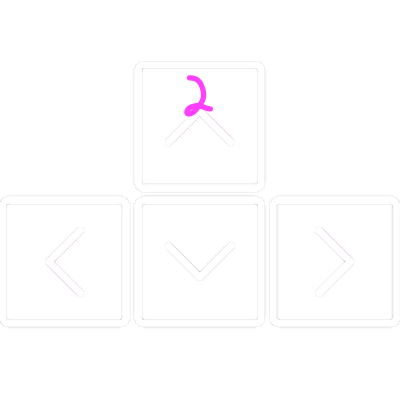
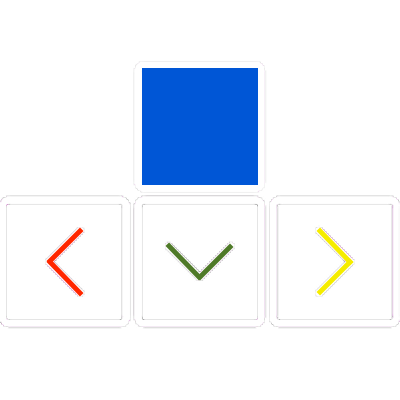
Finished the first version of the game

diff --git a/js/game.js b/js/game.js
@@ -1,45 +1,161 @@
 window.onload = function() {
     initialize();
     builSequences();
+    manageVelocity();
     showSequence();
 
     canvas.addEventListener("click", onClick, false);
 
     function onClick(e) {
-        console.log("cliked")
+        checkInputSequence('mouse', event);
+        if (gameOver) {
+            coords = getMousePosition(event);
+            if ((coords.x >= 340 && coords.x <= 435) && (coords.y >= 252 && coords.y <= 284)) {
+                reset();
+                initialize();
+                builSequences();
+                manageVelocity();
+                showSequence();
+            }
+        }
     }
+
+    document.addEventListener('keydown', function(event) {
+        console.log(event.key)
+        checkInputSequence('key', event);
+    }, false);
 };
+
+function buildMessage(mode) {
+    ctx.fillStyle = "#333";
+    ctx.fillRect((canvas.width / 2) - 360, (canvas.height / 2) - 165, 220, 50);
+    if (mode == "wait") {
+        ctx.fillStyle = "#FFF";
+        ctx.font = "30px sans-serif";
+        ctx.fillText("Pay Attention!", (canvas.width / 2) - 350, (canvas.height / 2) - 125);
+    } else {
+        ctx.fillStyle = "#FFF";
+        ctx.font = "30px sans-serif";
+        ctx.fillText("Your turn!", (canvas.width / 2) - 350, (canvas.height / 2) - 125);
+    }
+}
 
 function buildTemplate(index) {
     var gameTemplate = new Image();
+    if (index == null) {
+        ctx.fillStyle = "#333";
+        ctx.fillRect(0, 51, gameWidth, gameHeight - 51);
+        index = 0;
+    }
     gameTemplate.src = "imgs/genius_template_" + index + ".png";
     gameTemplate.onload = function() {
-        ctx.drawImage(gameTemplate, (gameWidth / 2) - 200, (gameHeight / 2) - 170);
+        setTimeout(function() {
+            ctx.drawImage(gameTemplate, (gameWidth / 2) - 200, (gameHeight / 2) - 170);
+        }, 10);
     };
 }
 
 function builSequences() {
-    for (var i = 0; i < 3; i++) {
+    var stageSequence = sequence.length;
+    for (var i = stageSequence; i < stage; i++) {
         sequence[i] = randomIntFromInterval(1, 4);
     }
+    console.log(sequence)
+}
+
+function checkInputSequence(mode, event) {
+    if (startToPlay && !gameOver) {
+        arrowInput = getArrowInput(mode, event);
+        if (arrowInput != null) {
+            if (sequence[indexHit] == arrowInput) {
+                if ((indexHit + 1) == stage) {
+                    nextStage();
+                } else {
+                    indexHit++;
+                }
+            } else {
+                buildGameOver();
+            }
+        }
+    }
+}
+
+function getArrowInput(mode, event) {
+    if (mode == 'key') {
+        var key = event.key
+        switch (key) {
+            case "ArrowLeft":
+                return 1
+            case "ArrowUp":
+                return 2
+            case "ArrowDown":
+                return 3
+            case "ArrowRight":
+                return 4
+        }
+    } else {
+        coords = getMousePosition(event);
+        if ((coords.x >= 206 && coords.x <= 322) && (coords.y >= 270 && coords.y <= 388))
+            return 1;
+        else if ((coords.x >= 339 && coords.x <= 457) && (coords.y >= 132 && coords.y <= 254))
+            return 2;
+        else if ((coords.x >= 358 && coords.x <= 458) && (coords.y >= 270 && coords.y <= 388))
+            return 3;
+        else if ((coords.x >= 473 && coords.x <= 596) && (coords.y >= 270 && coords.y <= 388))
+            return 4;
+    }
+    return null;
+}
+
+function manageVelocity() {
+    if (stage < 5) {
+        velocity = 300;
+    } else if (stage >= 5 && stage < 10) {
+        velocity = 400;
+    } else if (stage >= 10 && stage < 15) {
+        velocity = 500;
+    } else if (stage >= 15 && stage < 20) {
+        velocity = 600;
+    } else if (stage >= 20 && stage < 25) {
+        velocity = 700;
+    } else if (stage >= 25 && stage < 30) {
+        velocity = 800;
+    } else {
+        velocity = 950;
+    }
+
+    requestAnimationFrame(manageVelocity);
+}
+
+function nextStage() {
+    startToPlay = false;
+    stage++;
+    indexHit = 0;
+    renderTop();
+    builSequences();
+    showSequence();
 }
 
 function showSequence() {
-    for (var i = 0; i < stage; i++) {
-        highlight(sequence[i]);
+    var count = 0;
+    var i = 0
+    for (i = 0; i < stage; i++) {
+        highlight(count++, sequence[i]);
+        highlight(count++, null);
     }
+    setTimeout(function() {
+        startToPlay = true;
+        buildMessage("player");
+    }, (i) * (1600 - velocity));
 }
-
-
 
 // Helpers:
 
-function highlight(index) {
-    //buildTemplate(index);
-    setTimeout(function(){
-      buildTemplate(index);        
-    }, 1500);
-
+function highlight(i, index) {
+    setTimeout(function() {
+        buildTemplate(index);
+        buildMessage("wait");
+    }, i * (1000 - velocity));
 }
 
 function randomIntFromInterval(min, max) {
@@ -52,9 +168,4 @@ function getMousePosition(evt) {
         x: evt.clientX - rect.left,
         y: evt.clientY - rect.top
     };
-}
-
-function sleep(seconds) {
-    var e = new Date().getTime() + (seconds * 1000);
-    while (new Date().getTime() <= e) {}
 }

diff --git a/js/initialize.js b/js/initialize.js
@@ -2,20 +2,23 @@ canvas = null;
 ctx = null;
 gameWidth = null;
 gameHeight = null;
-score = 0;
-velocity = 0;
+velocity = 300;
 gameOver = false;
-stage = 3;
+stage = 1;
 sequence = new Array();
+startToPlay = false;
+indexHit = 0;
 
 function reset() {
   gameWidth = null;
   gameHeight = null;
-  score = 0;
+
   stage = 1;
-  velocity = 0;
+  velocity = 300;
   gameOver = false;
   sequence = new Array();
+  startToPlay = false;
+  indexHit = 0;
 }
 
 function initialize() {
@@ -32,7 +35,7 @@ function buildGameOver() {
 
         ctx.fillStyle = "#FFF";
         ctx.font = "30px sans-serif";
-        ctx.fillText("SCORE: " + score, (canvas.width / 2) - 350, (canvas.height / 2) - 125);
+        ctx.fillText("STAGE: " + stage, (canvas.width / 2) - 350, (canvas.height / 2) - 125);
 
         ctx.fillStyle = "#FFF";
         ctx.font = "30px sans-serif";
@@ -58,7 +61,10 @@ function buildScenario() {
     canvas.width = gameWidth;
     canvas.height = gameHeight;
 
-    buildTemplate(0);
+    ctx.fillStyle = "#333";
+    ctx.fillRect(0, 51, gameWidth, gameHeight - 51);
+
+    buildTemplate(null);
 
     renderTop();
 }
@@ -68,16 +74,16 @@ function renderTop() {
     ctx.fillStyle = "#333";
     ctx.fillRect(0, 0, gameWidth, 50);
 
-    renderScore();
+    renderStage();
 }
 
 // Render Score label and value:
-function renderScore() {
+function renderStage() {
     ctx.fillStyle = "#FFF";
     ctx.font = "14px sans-serif";
-    ctx.fillText("Score: ", 20, 30);
+    ctx.fillText("Stage: ", gameWidth - 85, 30);
 
     ctx.fillStyle = "#FFF";
     ctx.font = "14px sans-serif";
-    ctx.fillText(score, 65, 31);
+    ctx.fillText(stage, gameWidth - 40, 31);
 }
